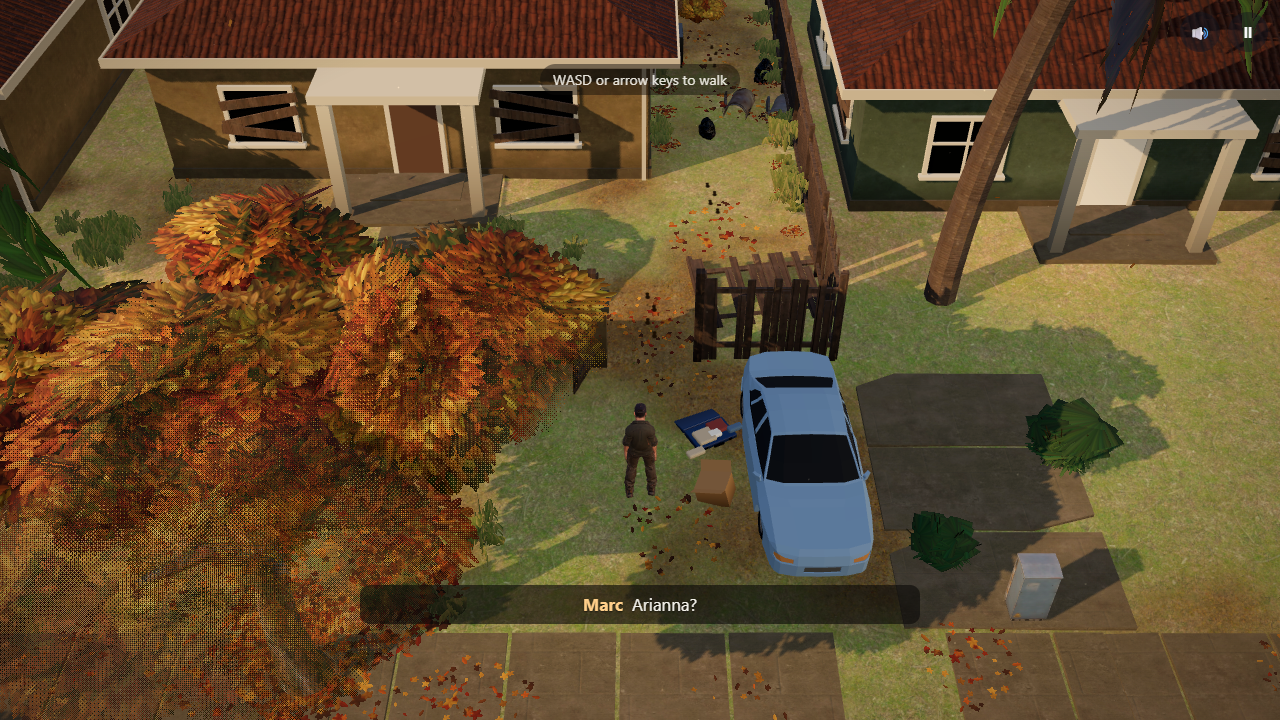
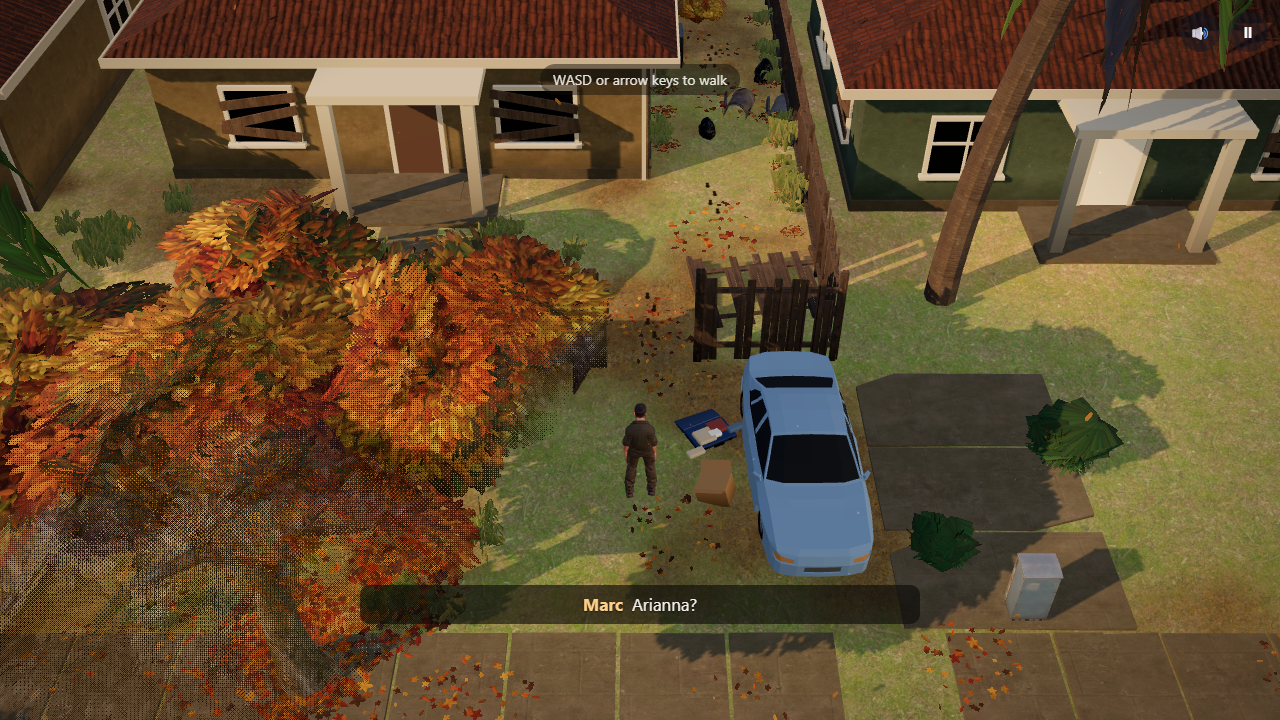
Deploy the neighborhood pass; live playtest 17/17

diff --git a/hub/data.js b/hub/data.js
@@ -25,7 +25,7 @@ window.HUB = {
       'Controls: <b>WASD / arrows</b> or a left-thumb drag to walk; after Arianna calls, the same input runs · <b>E</b> (or the E button) to try and climb the gate and to pick up the bunny · <b>Esc</b> pause · <b>R</b> restart.',
       'Camera: candidate A by default. <code>?camset=b</code> or <code>?camset=pass2</code> switches; <code>?cam=fov,dist,pitch,lead</code> tunes.',
       'Hub: <code>npm run hub</code>. Checks: <code>npm run playtest</code> (17 checks), <code>node tools/walkthrough.mjs --clips</code> (and <code>--firm</code>), <code>node tools/camera-compare.mjs</code>, then <code>node tools/hub-timings.mjs</code>.',
-      'Not deployed: https://sarno-survive.vercel.app still runs pass 2 (git tag <code>baseline-opening-pass2-2026-10-01</code>).',
+      'Live: https://sarno-survive.vercel.app runs this pass (deployed 2026-10-01 at Marc’s request; playtest 17/17 against it). Pass 2 is at git tag <code>baseline-opening-pass2-2026-10-01</code>.',
     ],
     diagnosis: [
       'The opening (pass 2, captured below before any change) starts on a long canal promenade: water, a long sidewalk, flat grass, a toppled chair and a cooler. It does not say "collapse" or "search" on the first screen.',
@@ -150,7 +150,7 @@ window.HUB = {
       'Marc’s lines are kept (“Arianna?”, “She was here.”, “She wouldn’t leave this.”, “Locked.”, “Daddy!”, “Stay there.”). No new story canon.',
       'The seawall, canal and pump house are gone from this route; the pass-2 build is at git tag baseline-opening-pass2-2026-10-01.',
       'Golden hour sinking toward sunset along the walk; candle and lantern light at the house only; no working streetlights.',
-      'Not deployed: the live site still runs pass 2 until Marc asks for a deploy.',
+      'Deployed 2026-10-01 at Marc’s request; playtest 17/17 against the live site.',
     ],
   },
   overview: {
@@ -158,7 +158,7 @@ window.HUB = {
     goal: 'The neighborhood pass of the opening (Marc\u2019s visual revision of 2026-10-01): Marc already searching an abandoned South Florida neighborhood at golden hour: the street → round the boarded house → the backyard and its locked gate → the park → the bunny → her call, running → mud or firm ground → the house, top-right. Text only. About 75 s for an agent. See the Opening redesign tab.',
     builds: [
       { status: 'agent-tested', label: 'Local dev build: http://localhost:5173/', href: 'http://localhost:5173/', note: 'Run `npm run dev` in the project folder first. ?debug=1 shows fps, position, ground and beats; ?dev=1 adds keys 1–7 to jump to checkpoints; ?voices=0 turns the placeholder voices off.' },
-      { status: 'agent-tested', label: 'Live site: https://sarno-survive.vercel.app', href: 'https://sarno-survive.vercel.app', note: 'Still opening pass 2 (deployed 2026-10-01). The neighborhood pass is local only until Marc asks for a deploy.' },
+      { status: 'agent-tested', label: 'Live site: https://sarno-survive.vercel.app', href: 'https://sarno-survive.vercel.app', note: 'The neighborhood pass, deployed 2026-10-01 at Marc’s request; playtest 17/17 against it.' },
       { status: 'reference', label: 'Pass 2 (the seawall walk): git tag baseline-opening-pass2-2026-10-01', note: 'Run git checkout baseline-opening-pass2-2026-10-01 to restore it.' },
       { status: 'reference', label: 'Previous builds: git tags baseline-opening-route-2026-09-30 (slice v1) and baseline-sandbox-2026-09-30', note: '`git checkout <tag>` restores either.' },
     ],
@@ -172,7 +172,7 @@ window.HUB = {
     ],
     progress: [
       { status: 'agent-tested', item: 'Opening, neighborhood pass: street → passage → backyard gate → park → bunny → run → mud or firm → the house', note: 'Plays start to end card with normal controls, either way (about 75 s for an agent). Text only. 17/17 automated checks.' },
-      { status: 'superseded', item: 'Opening pass 2: seawall → park → lane → locked gate → the house', note: 'Tag baseline-opening-pass2-2026-10-01; still the live site.' },
+      { status: 'superseded', item: 'Opening pass 2: seawall → park → lane → locked gate → the house', note: 'Tag baseline-opening-pass2-2026-10-01.' },
       { status: 'implemented', item: 'Marc: Marc’s Tripo model, rigged, with Walk, Run, Climb and Frustrated', note: 'blender/build_marc.py → public/assets/models/marc.glb. A methodical walk while searching; the Run clip after her call; the gate uses Frustrated then Climb.' },
       { status: 'implemented', item: 'Blender asset kit', note: 'blender/build_kit.py: generated leaf (green and autumn), frond, palmetto, big-leaf, grass and fallen-leaf textures; oaks (two copper), palms, shrubs (one rust), big-leaf plants, three grass tufts; seven houses (boarded, teal, sand…), garden walls, fences, the gate; playground, bunny, branch, an open suitcase, a box. The neighborhood additions: build_kit.py -- neighborhood.' },
       { status: 'implemented', item: 'Poly Haven textures, HDRI and props; Poly Pizza vehicles and rowboat', note: 'tools/fetch-polyhaven.mjs, tools/fetch-assets.mjs. All in CREDITS.md. Compressed for phones by tools/optimize-assets.mjs (the opening downloads about 7.6 MB).' },
@@ -182,7 +182,7 @@ window.HUB = {
     ],
     checks: T.checks || [],
     next: [
-      'Marc plays the neighborhood pass and says what is wrong (local build; deploy when he asks).',
+      'Marc plays the neighborhood pass on his phone and says what is wrong.',
       'Then: what he asks for, or the door confrontation.',
     ],
     unverified: [

diff --git a/AGENTS.md b/AGENTS.md
@@ -2,7 +2,7 @@
 
 Start with `README.md` (run, controls, layout), `docs/STATE.md` (what works, issues, next steps) and `docs/DESIGN.md` (decisions and tuning numbers). Keep those three up to date when you change things.
 
-- **Current build:** the opening, neighborhood pass (Marc's visual revision of 2026-10-01, `claude-neighborhood-visual-revision.txt`): his Tripo Marc searches an abandoned South Florida neighborhood: the street (boarded house, flat-tired car, suitcase, broken gate, her prints) → round the house → the backyard's locked gate he climbs → the park (the swing) → the bunny → her call, and he runs → a short muddy passage or firm ground → the house (top-right, front facing south-west) → "Stay there." Text only, no voices. Level: `src/world/level.js`; sequence: `src/systems/story.js`. Not deployed: the live site still runs pass 2 (tag `baseline-opening-pass2-2026-10-01`). Earlier: tags `baseline-opening-route-2026-09-30` (slice v1) and `baseline-sandbox-2026-09-30`. The story bible is `master-story-design-brief-2026-09-30.txt` in the Codex outputs folder. Don't invent story canon; Marc decides story beats; the dialogue lines are placeholders.
+- **Current build:** the opening, neighborhood pass (Marc's visual revision of 2026-10-01, `claude-neighborhood-visual-revision.txt`): his Tripo Marc searches an abandoned South Florida neighborhood: the street (boarded house, flat-tired car, suitcase, broken gate, her prints) → round the house → the backyard's locked gate he climbs → the park (the swing) → the bunny → her call, and he runs → a short muddy passage or firm ground → the house (top-right, front facing south-west) → "Stay there." Text only, no voices. Level: `src/world/level.js`; sequence: `src/systems/story.js`. Live on https://sarno-survive.vercel.app since 2026-10-01; pass 2 is at tag `baseline-opening-pass2-2026-10-01`. Earlier: tags `baseline-opening-route-2026-09-30` (slice v1) and `baseline-sandbox-2026-09-30`. The story bible is `master-story-design-brief-2026-09-30.txt` in the Codex outputs folder. Don't invent story canon; Marc decides story beats; the dialogue lines are placeholders.
 - **Work rhythm:** get Marc a playable build early and let him judge it before long automated test, capture or doc passes.
 - **Hub:** `hub/` is the visual production record (`npm run hub`). Update `hub/data.js`; take screenshots and clips with `node tools/walkthrough.mjs --clips` (and `--firm`), camera sheets with `node tools/camera-compare.mjs`, and refresh timings with `node tools/hub-timings.mjs`. (`tools/capture.mjs` still drives the older passes.) Only Marc approves anything.
 - **Run:** `npm run dev`. **Verify:** `npm run playtest` (17 checks), `node tools/walkthrough.mjs` for screenshots. Look at the screenshots, not only the JSON.

diff --git a/CLAUDE.md b/CLAUDE.md
@@ -2,7 +2,7 @@
 
 Start with `README.md` (run, controls, layout), `docs/STATE.md` (what works, issues, next steps) and `docs/DESIGN.md` (decisions and tuning numbers). Keep those three up to date when you change things.
 
-- **Current build:** the opening, neighborhood pass (Marc's visual revision of 2026-10-01, `claude-neighborhood-visual-revision.txt`): his Tripo Marc searches an abandoned South Florida neighborhood: the street (boarded house, flat-tired car, suitcase, broken gate, her prints) → round the house → the backyard's locked gate he climbs → the park (the swing) → the bunny → her call, and he runs → a short muddy passage or firm ground → the house (top-right, front facing south-west) → "Stay there." Text only, no voices. Level: `src/world/level.js`; sequence: `src/systems/story.js`. Not deployed: the live site still runs pass 2 (tag `baseline-opening-pass2-2026-10-01`). Earlier: tags `baseline-opening-route-2026-09-30` (slice v1) and `baseline-sandbox-2026-09-30`. The story bible is `master-story-design-brief-2026-09-30.txt` in the Codex outputs folder. Don't invent story canon; Marc decides story beats; the dialogue lines are placeholders.
+- **Current build:** the opening, neighborhood pass (Marc's visual revision of 2026-10-01, `claude-neighborhood-visual-revision.txt`): his Tripo Marc searches an abandoned South Florida neighborhood: the street (boarded house, flat-tired car, suitcase, broken gate, her prints) → round the house → the backyard's locked gate he climbs → the park (the swing) → the bunny → her call, and he runs → a short muddy passage or firm ground → the house (top-right, front facing south-west) → "Stay there." Text only, no voices. Level: `src/world/level.js`; sequence: `src/systems/story.js`. Live on https://sarno-survive.vercel.app since 2026-10-01; pass 2 is at tag `baseline-opening-pass2-2026-10-01`. Earlier: tags `baseline-opening-route-2026-09-30` (slice v1) and `baseline-sandbox-2026-09-30`. The story bible is `master-story-design-brief-2026-09-30.txt` in the Codex outputs folder. Don't invent story canon; Marc decides story beats; the dialogue lines are placeholders.
 - **Work rhythm:** get Marc a playable build early and let him judge it before long automated test, capture or doc passes.
 - **Hub:** `hub/` is the visual production record (`npm run hub`). Update `hub/data.js`; take screenshots and clips with `node tools/walkthrough.mjs --clips` (and `--firm`), camera sheets with `node tools/camera-compare.mjs`, and refresh timings with `node tools/hub-timings.mjs`. (`tools/capture.mjs` still drives the older passes.) Only Marc approves anything.
 - **Run:** `npm run dev`. **Verify:** `npm run playtest` (17 checks), `node tools/walkthrough.mjs` for screenshots. Look at the screenshots, not only the JSON.

diff --git a/docs/STATE.md b/docs/STATE.md
@@ -8,7 +8,7 @@ Last updated 2026-10-01. The project is the **opening, neighborhood pass**, buil
 - **Pace:** her call turns the search into a run.
 - **Choice:** a short muddy passage or firm ground.
 
-Live: <https://sarno-survive.vercel.app> **still runs pass 2** (the seawall walk, deployed 2026-10-01). This pass is local only until Marc asks for a deploy.
+Live: <https://sarno-survive.vercel.app> runs this pass (deployed 2026-10-01 at Marc's request; playtest 17/17 against it).
 
 Builds:
 - **Pass 2 (the seawall walk):** at tag `baseline-opening-pass2-2026-10-01`.
@@ -70,12 +70,12 @@ The visual record is `hub/` (`npm run hub`), **Opening redesign** tab. It has:
 
 ## Next steps (suggested)
 
-1. Marc plays it and says what is wrong (local build; deploy when he asks).
+1. Marc plays it on his phone and says what is wrong.
 2. Then what he asks for: a modeled flat tire and open trunk, more to find on the backyard stretch, an idle clip and a better landing, sound for the run and the mud, or the door confrontation.
 
 ## Deployment
 
-- **Vercel project:** `sarno-survive` on the **Marc Sarno** team (`marcsarno`), account marc731@gmail.com. Live URL: <https://sarno-survive.vercel.app> (pass 2 since 2026-10-01).
+- **Vercel project:** `sarno-survive` on the **Marc Sarno** team (`marcsarno`), account marc731@gmail.com. Live URL: <https://sarno-survive.vercel.app> (the neighborhood pass since 2026-10-01).
 - **Redeploy (only when Marc asks):**
   - Run `npx vercel whoami`; it should print `marc731-6361`.
   - Then run `npm run deploy`.

diff --git a/README.md b/README.md
@@ -12,7 +12,7 @@ The confrontation at the door, and everything after it, is later work. Lines are
 
 It is built with Three.js and Vite and runs in a desktop or phone browser, designed for portrait phones.
 
-**Live site:** <https://sarno-survive.vercel.app> still runs the previous build (pass 2, the seawall walk) until this one is deployed.
+**Live site:** <https://sarno-survive.vercel.app> runs this build.
 
 > Earlier builds: pass 2 is at git tag `baseline-opening-pass2-2026-10-01`; the long-route slice at `baseline-opening-route-2026-09-30`; the sandbox (nine areas, inventory, crafting, combat) at `baseline-sandbox-2026-09-30`.
 
